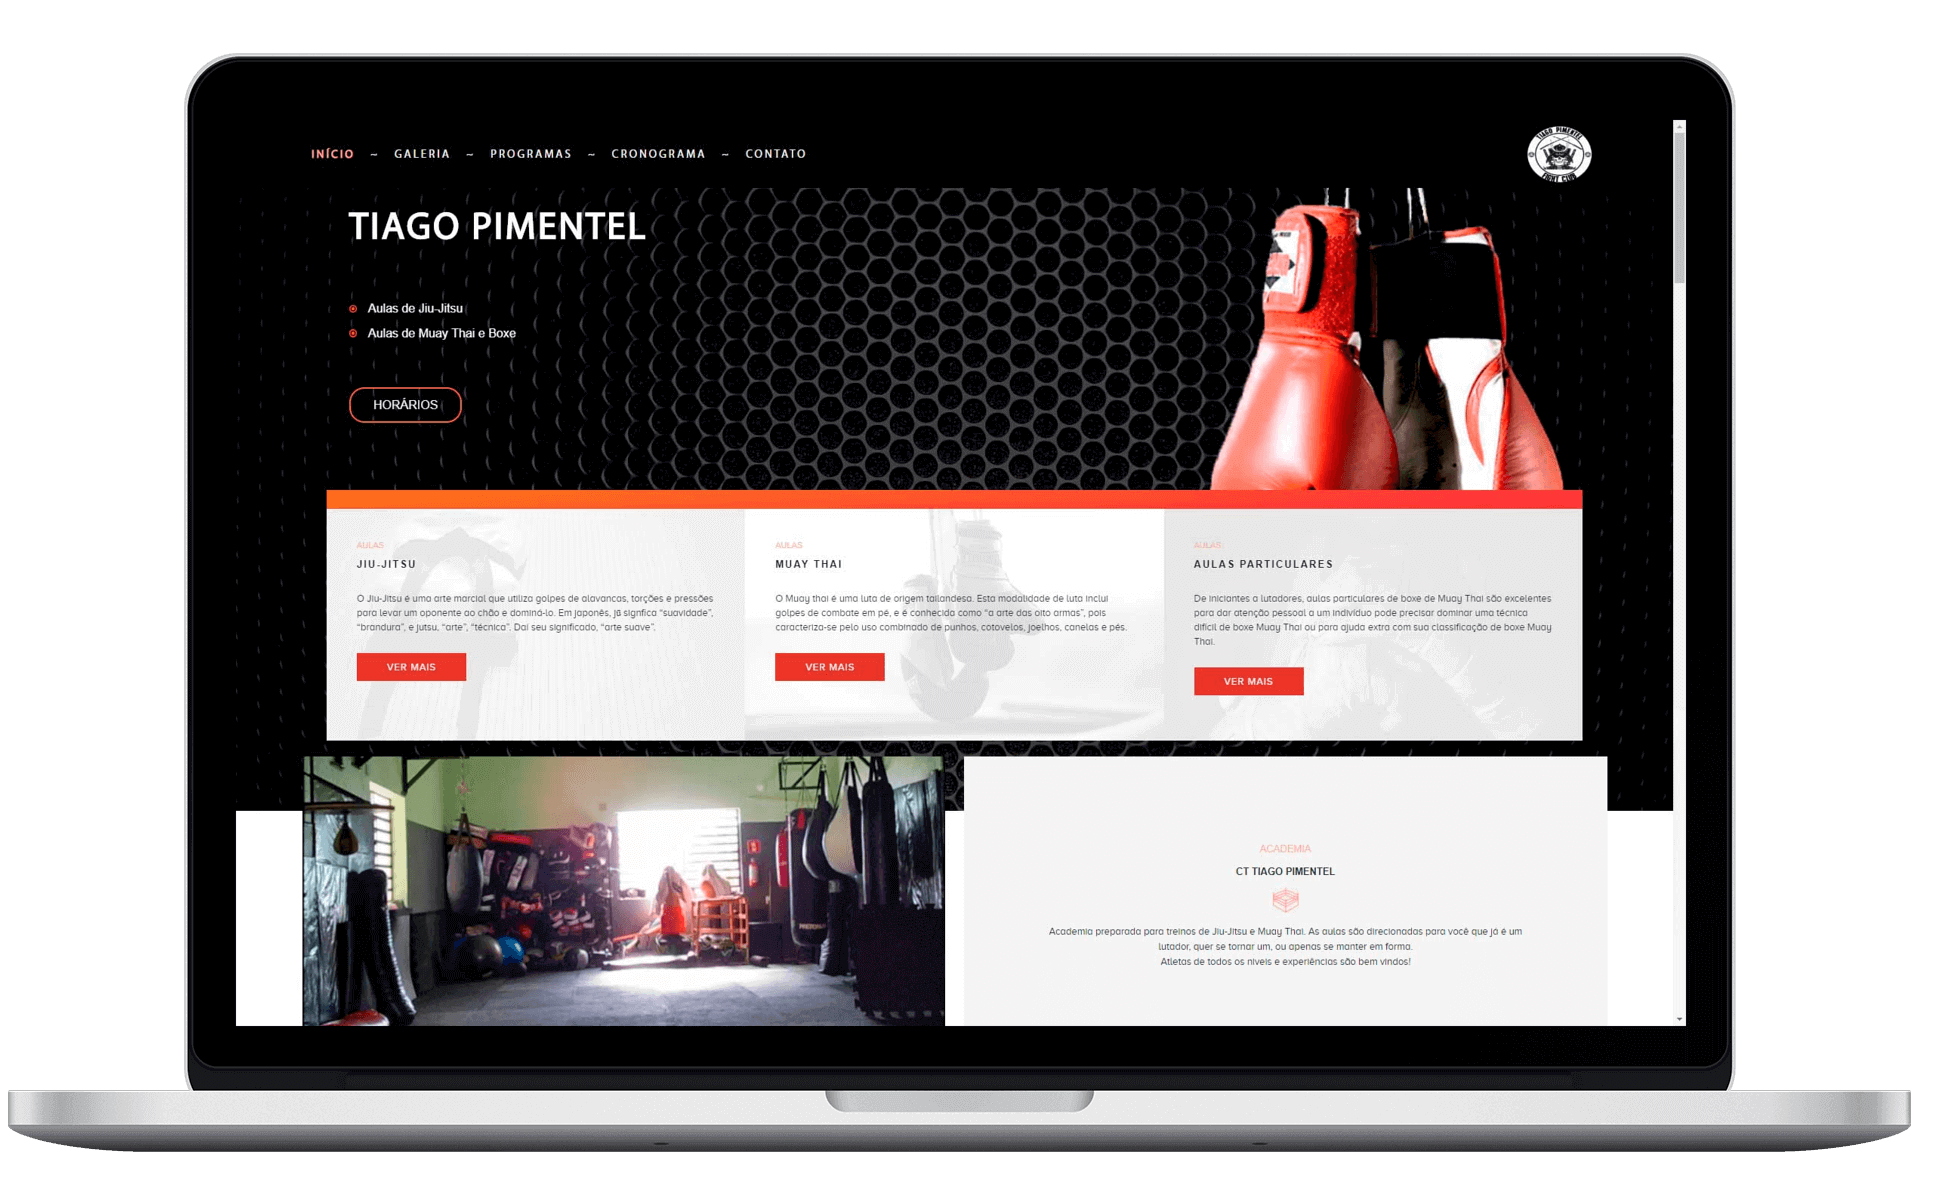
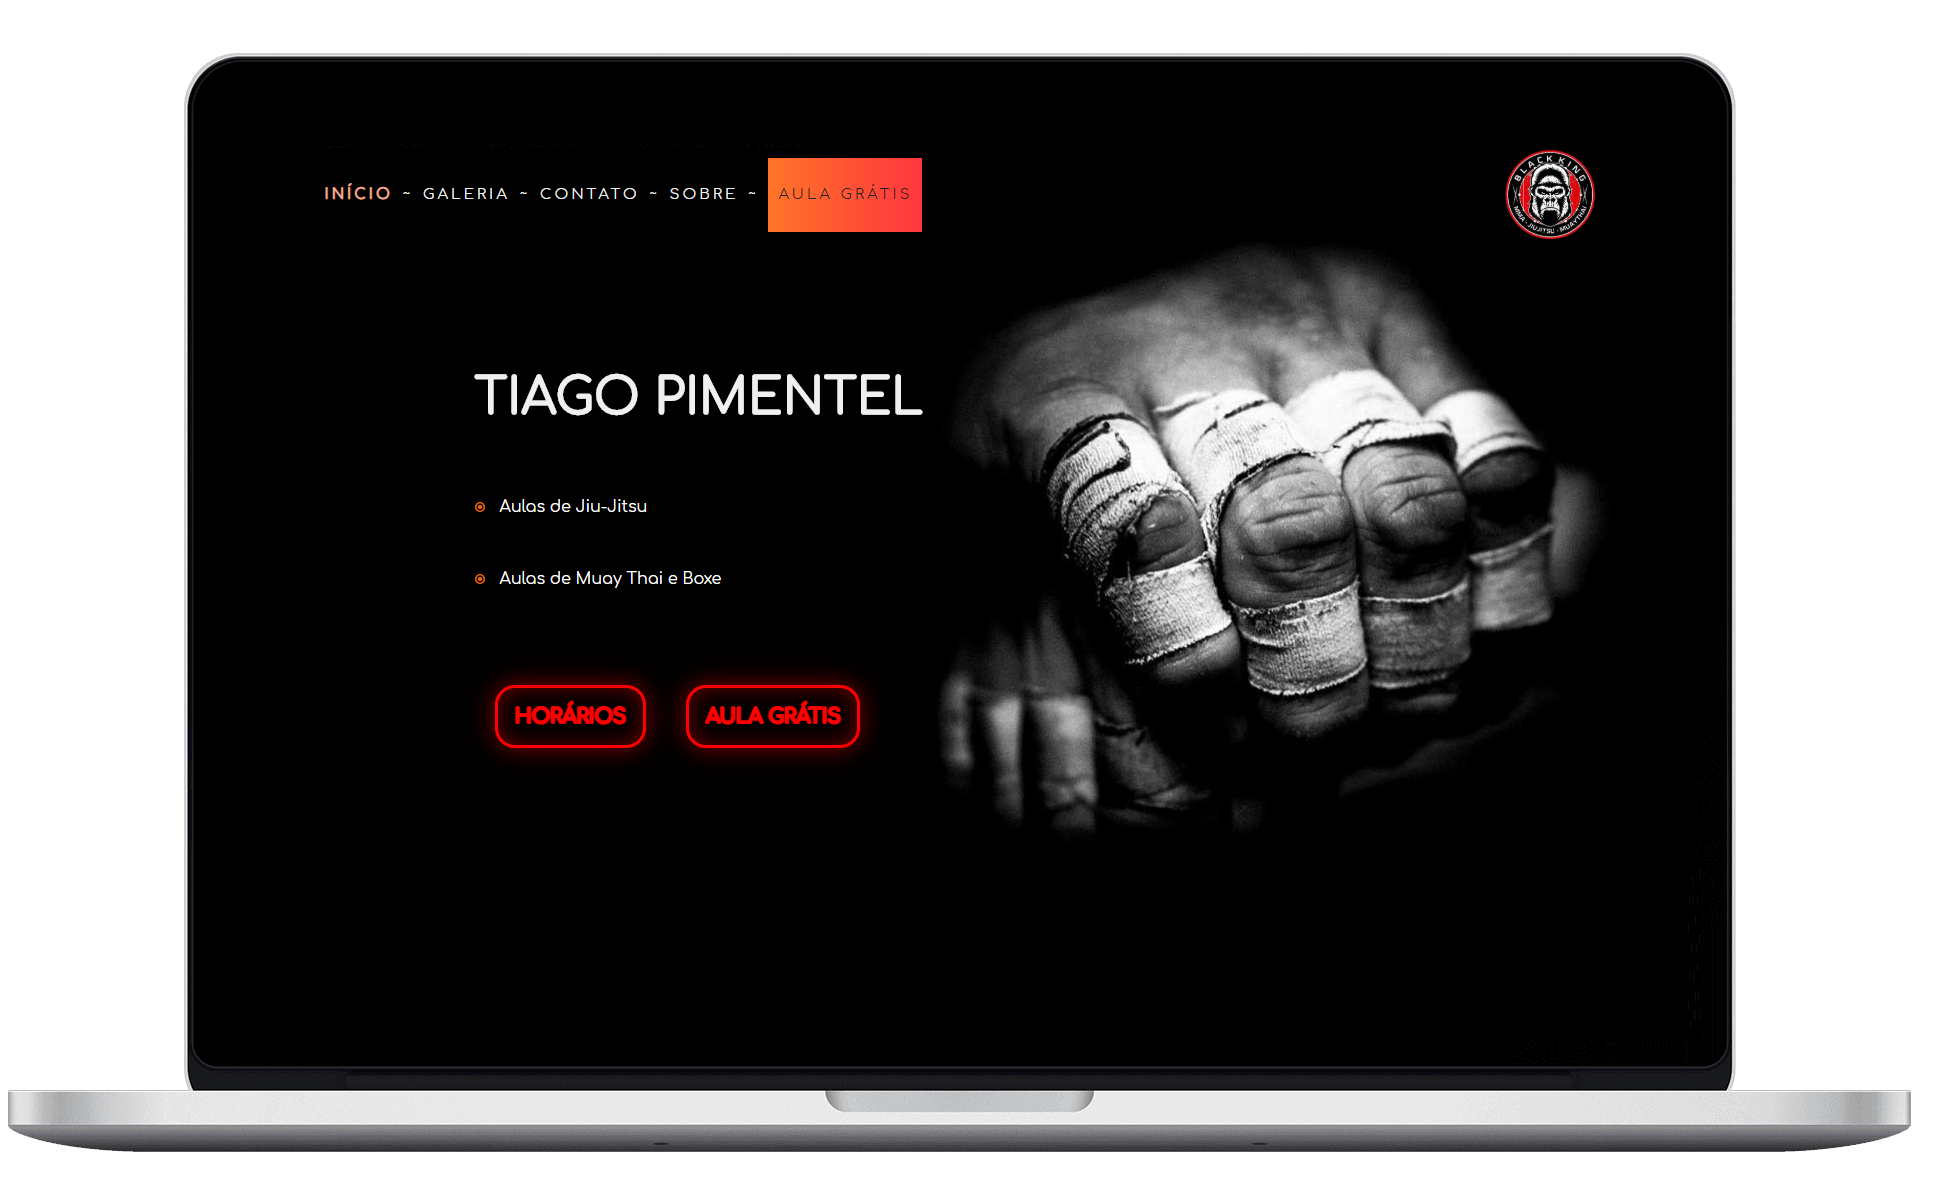
update tiago website images and tech

diff --git a/src/components/websites/Websites.js b/src/components/websites/Websites.js
@@ -28,7 +28,7 @@ const Websites = () => {
           He teaches martial arts such as Muai thay/ Boxing and Brazilian
           Jiu-Jitsu."
           itemsCard={tiago}
-          visitLink="https://tiago-pimentel.firebaseapp.com"
+          visitLink="https://tiagopimentel.herokuapp.com"
         />
         <Item
           title="Delicada Mulher"

diff --git a/src/util/technologies.js b/src/util/technologies.js
@@ -1,11 +1,15 @@
 export const tiago = [
   'Javascript',
   'Css',
-  'Sass',
   'React',
   'Redux',
-  'Webpack',
-  'Firebase'
+  'Node',
+  'Express',
+  'Mongo',
+  'Axios',
+  'JWT',
+  'AWS S3',
+  'Heroku'
 ];
 
 export const delicada = [

diff --git a/src/components/home/Home.js b/src/components/home/Home.js
@@ -14,7 +14,7 @@ ReactGA.pageview(window.location.pathname);
 const particlesOptions = {
   particles: {
     number: {
-      value: 40,
+      value: 20,
       density: {
         enable: true,
         value_area: 800
